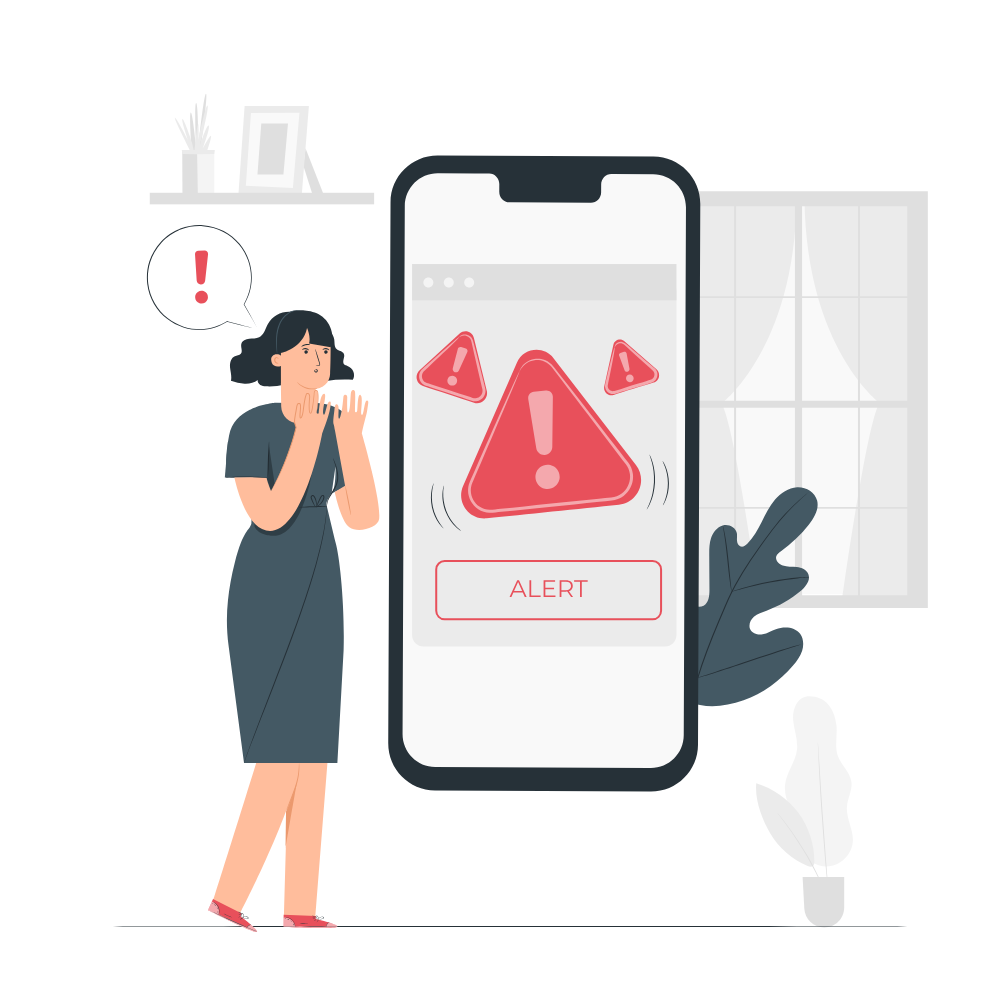
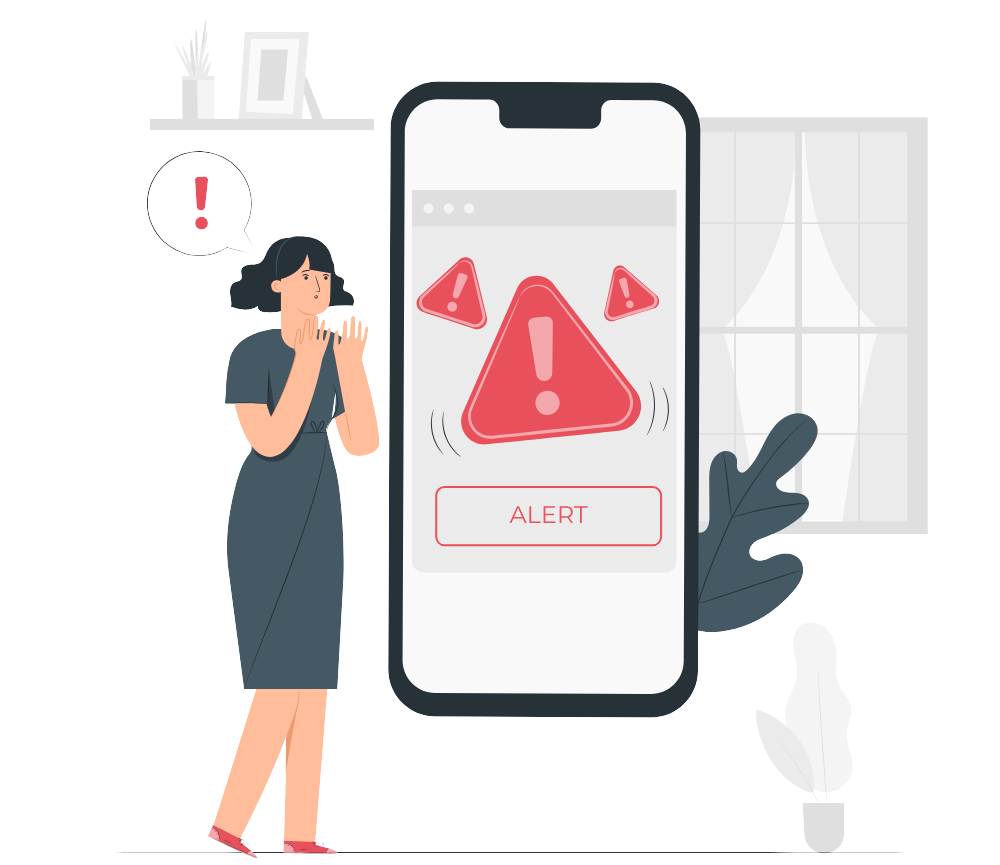
mobile view navbar, phone alert. all completed

diff --git a/src/Components/HmepageComp/MobileView.js b/src/Components/HmepageComp/MobileView.js
@@ -15,12 +15,51 @@ const MobileView = () => {
   return (
     <>
       
-    {/* <div className='m-navbar'>
+    <div className='m-navbar'>
         <div className='m-ComponentDiv1'> Work-Playground </div>
         <div className='m-ComponentDiv2'>
                 <a href="https://ak14aman.vercel.app/" style={{color: '#ffff'}}>Who Me? 👀 </a>
             </div>
-    </div> */}
+    </div>
+
+
+    {/* SUB CONTAINER phone alert */}
+    <div className="m-sub-container">
+
+        <div className='m-subimgcentercontainer' style={{paddingTop: '3rem'}}>
+      <div className="m-sub-image-container">
+            <div>
+                <img
+                src={phonealert}
+                alt="Your Image"
+                className="image"
+                />
+            </div>
+        </div>   
+        </div>   
+
+      <div className="m-sub-content">
+
+        <div style={{ display: 'flex', justifyContent: 'center' }}>
+        <h2 className="m-sub-heading" style={{fontSize: '1.4rem'}}>Uh, Sorry mate :(</h2>
+        </div>
+
+        <p className="m-sub-description" style={{color: '#0a2751'}}>
+        This is a desktop heavy app, it just won't work properly on mobiles. So hop on to your pc and explore it seamlessly :)
+        <br/><br/>
+
+        To the section of people who don't give a sh*t (me included): <br/>
+        You can always test your phone's limit by switching to desktop view, and if it works perfectly drop me a text "Fu*k you aman, my so-and-so phone {' >>> '} your dabba phone".
+        </p>
+      </div>      
+
+
+      <div style={{ padding: '10px', display: 'flex', justifyContent: 'center' }}>🡣</div> 
+
+    </div>
+
+
+
 
       {/* HERO CONTAINER */}
 
